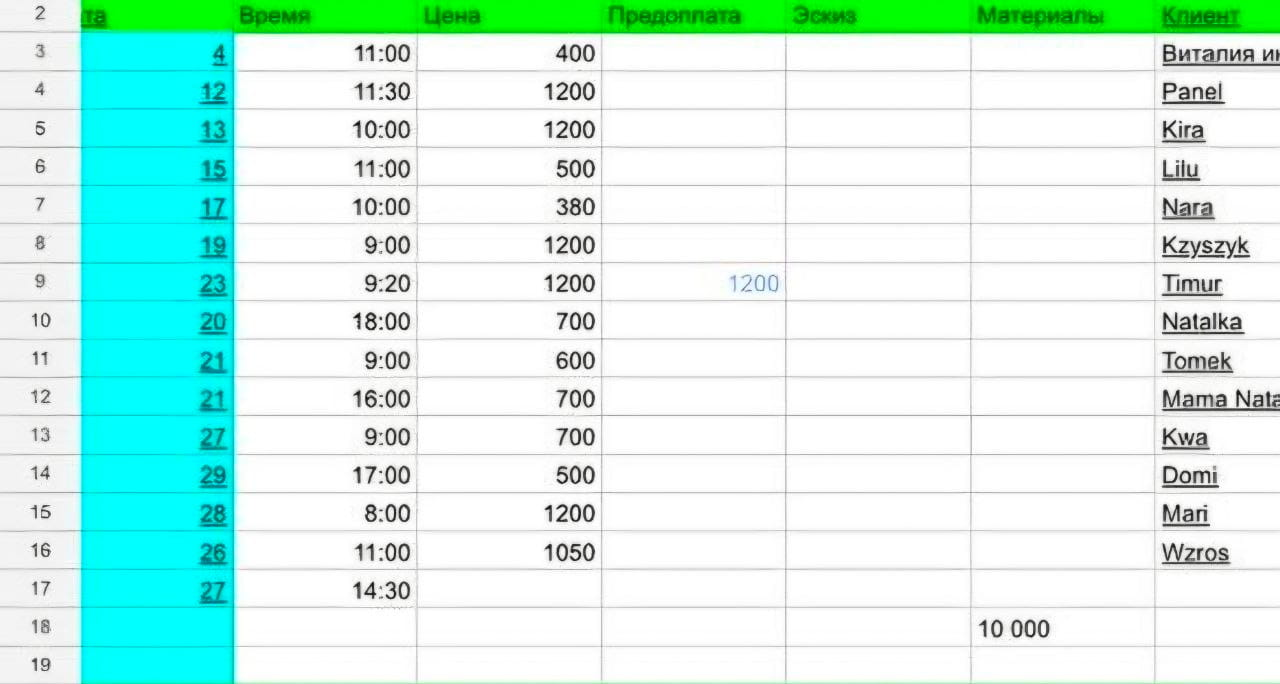
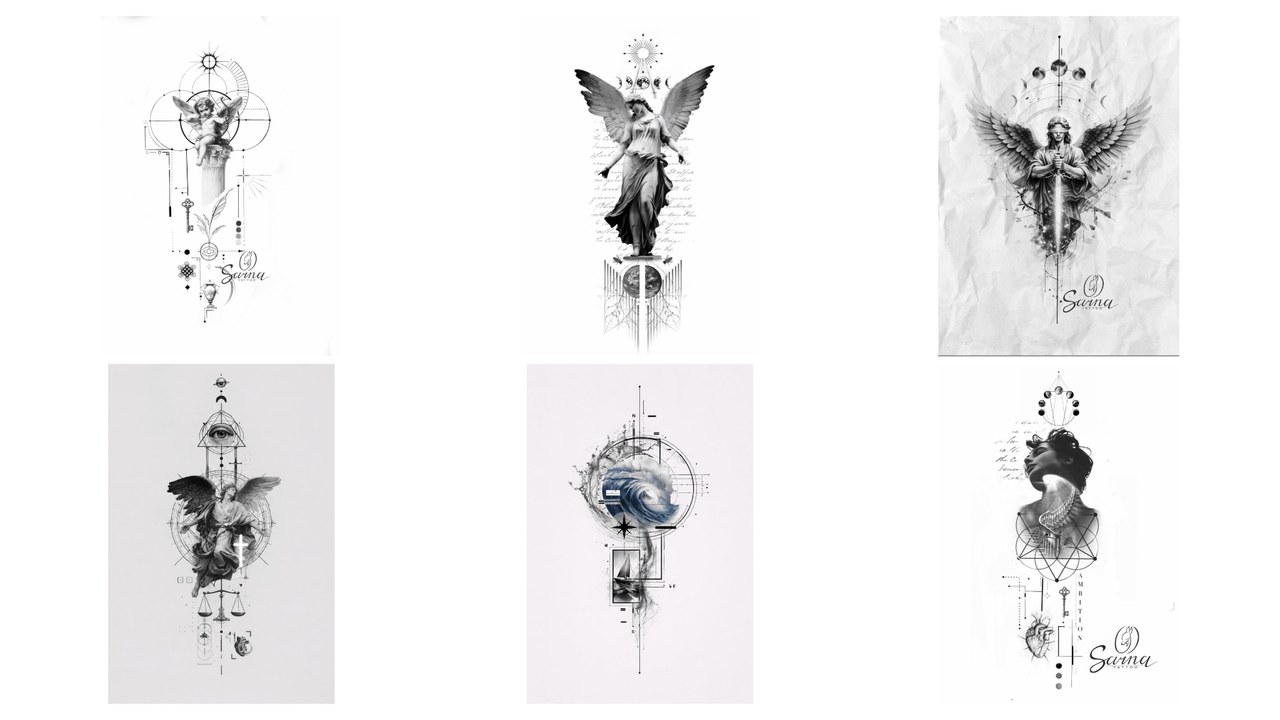
Replace 'Шаблоны и бонусы' image with tattoo sketch designs grid
New client-provided PDF: a 6-design grid of ready-made tattoo sketches
(matches the card's own copy: 'Готовые эскизы...'), replacing the old
cost-calculator screenshot. Natural ratio changed (1280x684 ->
1280x720), so width/height attrs updated to match -- no crop/stretch,
same pattern as the pain-card photos. Alt text updated to describe
the new content. Both locales.

diff --git a/index.html b/index.html
@@ -413,7 +413,7 @@
           <h4 style="font-size:1rem;margin-bottom:8px;">Шаблоны и бонусы</h4>
           <p>Готовые эскизы, чек-листы и калькулятор стоимости работ, трафареты, анкета клиента, шаблон записей.</p>
           <div class="feature-templates-wrap">
-            <img src="assets/feature-templates-bonus.jpg" alt="Калькулятор стоимости работ" class="feature-templates-image" loading="lazy" decoding="async" width="1280" height="684" />
+            <img src="assets/feature-templates-bonus.jpg" alt="Готовые эскизы тату" class="feature-templates-image" loading="lazy" decoding="async" width="1280" height="720" />
           </div>
         </div>
         <div class="card feature-card">

diff --git a/ua/index.html b/ua/index.html
@@ -451,7 +451,7 @@
           <h4 style="font-size:1rem;margin-bottom:8px;">Шаблони і бонуси</h4>
           <p>Готові ескізи, чек-листи і калькулятор вартості робіт, трафарети, анкета клієнта, шаблон записів.</p>
           <div class="feature-templates-wrap">
-            <img src="../assets/feature-templates-bonus.jpg" alt="Калькулятор вартості робіт" class="feature-templates-image" loading="lazy" decoding="async" width="1280" height="684" />
+            <img src="../assets/feature-templates-bonus.jpg" alt="Готові ескізи тату" class="feature-templates-image" loading="lazy" decoding="async" width="1280" height="720" />
           </div>
         </div>
         <div class="card feature-card">
